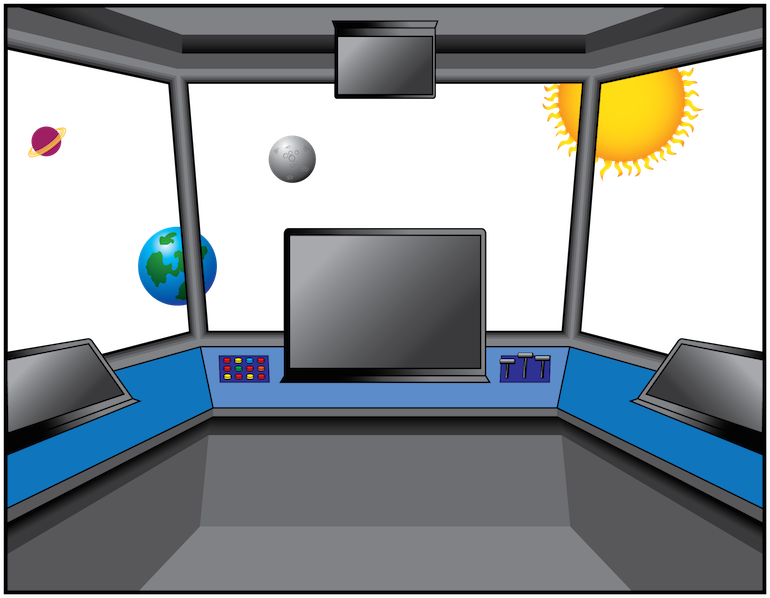
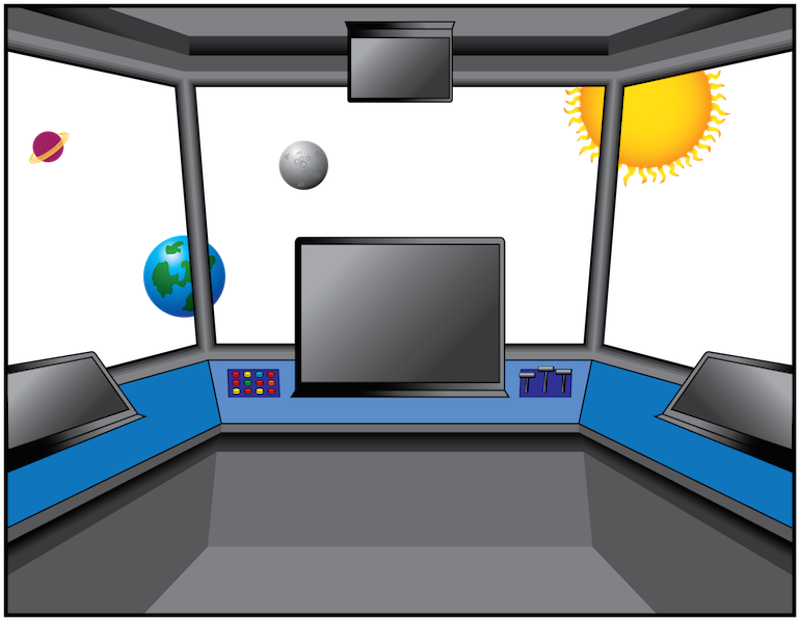
Student Dashboard UI Improvements

diff --git a/site/SpaceSpeller/student/templates/student/dashboard.html b/site/SpaceSpeller/student/templates/student/dashboard.html
@@ -41,11 +41,11 @@
 <style type="text/css"> 
  	.outer { 
 		margin: 0 auto;
-		width: 780px;
+		width: 810px;
  	} 
  	.inner {
  	 	margin: 0 auto;
- 	 	width: 750px;
+ 	 	width: 780px;
  	}
  	.button1 {
  	 	margin:0 auto;
@@ -153,7 +153,7 @@
  	<div class="outer"> 
  		<img src="{% static 'student/images/cockpit.png' %}" alt="cockpit" style="border-right:10px solid black; position:absolute; z-index:2"> 
  		<div class="inner">
- 		 		<img src="{% static 'student/images/background.gif' %}" alt="stars" style="top:20px; width:750px; position:absolute; z-index:1">
+ 		 		<img src="{% static 'student/images/background.gif' %}" alt="stars" style="top:20px; width:780px; position:absolute; z-index:1">
  		 		<div class ="button1">
  		 			<a href="/game/" class="classname" style="top:277px; position:absolute">PLAY</a>
  		 		</div>

diff --git a/site/SpaceSpeller/teacher/templates/teacher/teacher.html b/site/SpaceSpeller/teacher/templates/teacher/teacher.html
@@ -163,7 +163,7 @@
 	<div id="header">
 		<p id="tfn"></p> <!-- Teacher's name -->
 	</div>
-	<button class="button2">Profile</button>	
+	<button class="button2">Log Out</button>	
 	<br>
 	<br>
 	<center>
